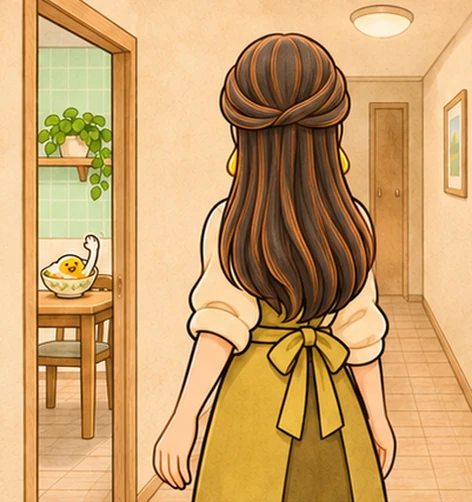
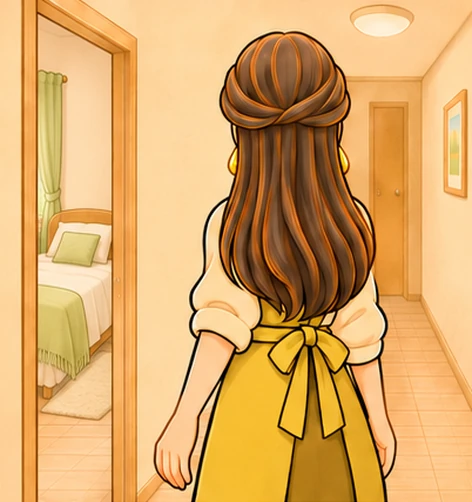
p5e: green bedroom hallway turn sequence replaces the old poses

diff --git a/src/app/preview/visual/PanelPerf.tsx b/src/app/preview/visual/PanelPerf.tsx
@@ -143,7 +143,8 @@ export function HearPanel({ p, pos, dy, q, stage, animate }: { p: PanelSlot; pos
  * 整格是同画布的姿势图，硬切（图与图之间是同一背景，不会重影）。
  */
 const TURN_DIR = "/assets/comic-v6/p5e/";
-const TURN_FRAMES: [number, number][] = [[0, 0], [1, 0.4], [2, 0.7], [1, 1.0], [2, 1.2], [3, 1.4], [4, 1.6], [5, 1.9], [6, 2.2], [7, 2.28], [8, 2.4]];
+// 2026-11-15 换成"绿色卧室走廊"版（p5e-green-bedroom-delivery，timeline.txt：背影 → 回头 → 惊讶 → 出现惊叹线，末帧停 1.8 s）
+const TURN_FRAMES: [number, number][] = [[0, 0], [1, 0.4], [2, 0.9], [3, 1.4], [4, 1.6], [5, 1.9], [6, 2.2], [7, 2.28], [8, 2.4]];
 export function TurnPanel({ p, pos, dy, scrub, animate }: { p: PanelSlot; pos: Place; dy: number; scrub: number; animate: boolean }) {
   const els = useRef<(HTMLImageElement | null)[]>([]);
   // 动画进度由滚动直接带动（scrub 0–1 = 这一段"停留"阶段的滚动进度）：慢滚一帧一帧走，回滚倒着走，没有"播过去"的问题
